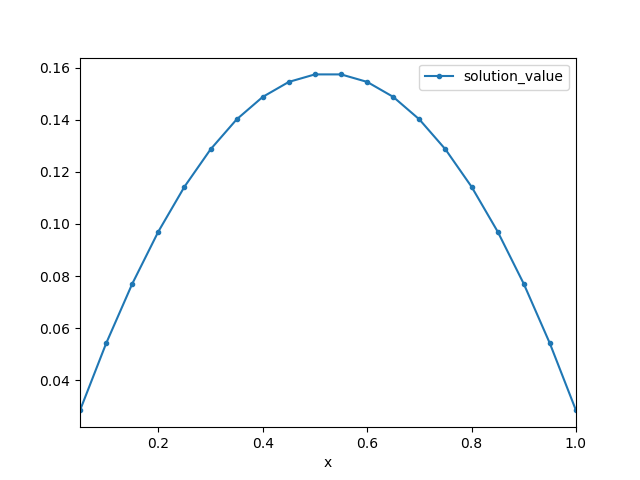
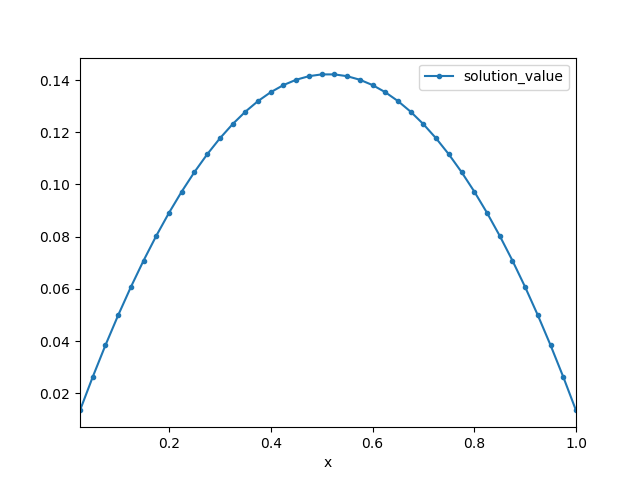
readme modifies

diff --git a/README.md b/README.md
@@ -4,3 +4,68 @@ Surprisingly I have not found a good sparse matrix library for
 `Fortran90` on the internet when I needed it. Therefore, I wrote this
 object-oriented library to implement sparse matrices. This library
 facilitated defining and manipulating such matrices. 
+
+## Available sparse matrix representations:
+1. COO (coordinate):                  type(spmat)
+2. CSR (compressed storage row):      type(sp_csr)
+
+## Main subroutines to manipulate sparse matrix:
+
+| subroutine        | |
+|---|---|
+| buildspmat        | builds a sparse matrix in COO format                 |
+| clearspmat        | destroy a sparse matrix in COO format                |
+| writespmat        | writes a sparse matrix of COO format in a file       |
+| showspmat         | shows a sparse matrix of COO format in terminal      |
+| readspmat         | read an entry of a COO matrix and return the value   |
+| insert2spmat      | inserts an entry in a COO matrix at a given position |
+| insertblock2spmat | inserts a block COO matrix into another COO matrix   |
+| SPtranspose       | transpose a COO matrix                               |
+| alpha * Asp       | 'alph' is a real*8 and Asp is a COO matrix           |
+| Asp * vec         | multiplies a COO sparse matrix to a vector           |
+| Asp + Bsp         | sum of two sparse matrices. It might be expensive    |
+| Bsp = Asp         | Assign Asp to Bsp                                    |
+| copysp2sp         | copy a COO matrix into another COO matrix            |
+| buildsp_csr       | builds a CSR matrix                                  |
+| sp_coo2csr        | converts a COO to CSR format                         |
+
+
+
+# Example
+Through an example we can see the usage of this library. The file
+`src/test.f90` is solving a partial differential equation using a
+finite difference method:
+
+```fortran
+!> @file test.f90
+program test
+
+  use sparsemat
+
+  type(spmat)             :: A, K, Id       ! define two sparse matrix
+  integer, parameter      :: len = 40       ! define the length of the matrices
+  real (kind=spkind_real) :: f(len)         ! define the force vector
+  real (kind=spkind_real) :: u(len)         ! define the solution vector
+  real (kind=spkind_real) :: h              ! mesh size
+  
+  Id = diag_sp(len)             ! building Identity matrix
+
+  K  = diag_sp(len,1) + diag_sp(len,-1) ! building stiffness matrix
+  K  = K + (-2.0) * diag_sp(len)        ! building stiffness matrix
+
+  h = 1.0 / (len-1)
+
+  A = h**(-2)*K + 0.25 * Id
+  
+  call showspmat(A)             ! inspecting the matrix by printing it
+                                ! in terminal
+  call writespmat("bin/matrix", A)
+
+  f = -1.0
+
+  call solve_gmres(A, u, f, len, len, 1.0E-5, 1.0E-5)
+  call writevector("bin/solution", u)
+  
+end program test
+```
+
